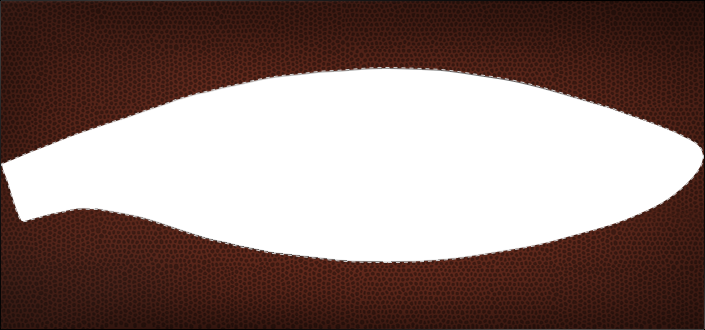
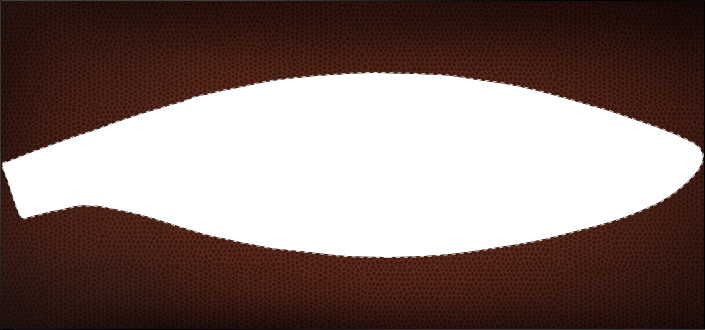
custom made

diff --git a/skin/frontend/default/spalding/css/spalding.css b/skin/frontend/default/spalding/css/spalding.css
@@ -3432,11 +3432,13 @@ ul.shopsList li span.shopsList_adrs{
 	width:705px;
 	height:400px;
 	left:50%;
-	margin-left:-200px;
+	margin-left:-480px;
 	margin-top:50px;
 	color:#fff;
 	z-index: 0;
 }
+
+
 .step_1_ball{
 	position: absolute;
 }
@@ -3631,8 +3633,12 @@ ul.shopsList li span.shopsList_adrs{
 }
 
 /*fun ball*/
+.step_2_Fun{
+	margin-left: 280px;
+}
 .step_2_FunBg{
 	position: absolute;
+	
 }
 
 .step_2_funBtn{
@@ -3845,6 +3851,7 @@ dl.madeBoxFuns dt.zz_t_2{
 .madeTex_ball{
 	position: absolute;
 	z-index: 1;
+	margin-left:280px;
 }
 
 .madeTexWrap{
@@ -4048,7 +4055,6 @@ dl.madeBoxFuns dt.zz_t_2{
 	margin-top:50px;
 	width:705px;
 	height:400px;
-	border-radius: 200px;
 	overflow:hidden;
 	z-index: 99999;
 }
